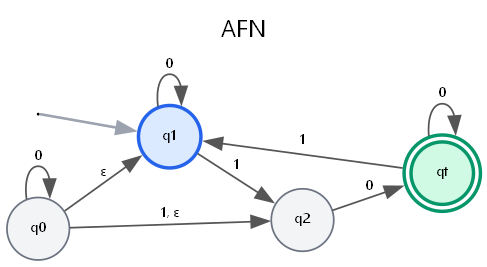
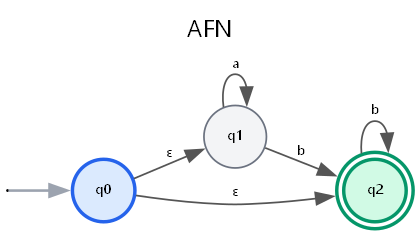
Alterações finais

diff --git a/main.py b/main.py
@@ -1,3 +1,7 @@
+# Nathália Marques Lima - 8163
+# Laura Luísa Martins Teixeira - 8758
+# Paulo Lemos - 9353
+
 from frontend import run_app
 
 

diff --git a/README.md b/README.md
@@ -1,16 +1,21 @@
 # Sistema de Teoria da Computacao
 
 Projeto em Python com interface grafica Tkinter para trabalhar com conceitos
-fundamentais de Teoria da Computacao:
+fundamentais da Teoria da Computacao.
+
+O sistema permite:
 
 - entrada e validacao de AFN;
 - conversao AFN -> AFD por construcao de subconjuntos;
 - simulacao de aceitacao de palavras no AFD;
 - minimizacao de AFD por refinamento de particoes;
-- conversao bidirecional entre gramatica regular e automato finito.
+- conversao bidirecional entre gramatica regular e automato finito;
+- visualizacao grafica dos automatos gerados;
+- salvamento dos diagramas dos automatos em imagem PNG.
 
-O projeto nao usa bibliotecas de terceiros e nao usa modulos prontos para
-processamento de linguagens regulares.
+O projeto nao usa bibliotecas prontas voltadas para processamento de linguagens
+regulares. As bibliotecas externas utilizadas sao apenas para visualizacao
+grafica dos automatos.
 
 ## Estrutura
 
@@ -18,20 +23,38 @@ processamento de linguagens regulares.
 sistema_teoria_computacao/
   main.py
   backend/
-    automata.py     # AFN, AFD, determinizacao, simulacao e minimizacao
+    automata.py     # AFN, AFD, determinizacao, simulacao, minimizacao e imagens Graphviz
     grammar.py      # Gramatica regular e conversoes GR <-> AF
     parsers.py      # Parsers textuais manuais, sem expressoes regulares
     errors.py       # Excecoes de validacao e parsing
   frontend/
     app.py          # Interface grafica Tkinter
+  output_graphs/    # Imagens PNG geradas automaticamente pelos automatos
 ```
 
 ## Requisitos
 
 - Python 3.10 ou superior.
 - Tkinter habilitado na instalacao do Python.
+- Pillow, usado para carregar e exibir imagens na interface.
+- Graphviz, usado para gerar os diagramas dos automatos.
 
 No Windows, a instalacao oficial do Python normalmente ja inclui Tkinter.
+
+Para que os diagramas sejam gerados corretamente, tambem e necessario instalar
+o Graphviz no sistema operacional e deixar o executavel `dot` disponivel no
+`PATH`.
+
+## Instalacao das dependencias
+
+Abra um terminal na pasta do projeto e execute:
+
+```powershell
+python -m pip install pillow graphviz
+```
+
+Caso o comando `python` nao esteja disponivel, use o executavel Python instalado
+na sua maquina.
 
 ## Como compilar/verificar
 
@@ -44,11 +67,6 @@ python -m compileall .
 
 Esse comando compila os arquivos `.py` para bytecode e aponta erros de sintaxe.
 
-```powershell
-cd caminhoArquivo
-& 'caminhoArquivo\dependencies\python\python.exe' -m compileall .
-```
-
 ## Como executar
 
 Na mesma pasta:
@@ -58,7 +76,23 @@ python main.py
 ```
 
 A janela abre com exemplos preenchidos. Voce pode substituir os campos e usar os
-botoes de conversao, simulacao e minimizacao.
+botoes de conversao, simulacao, minimizacao, conversao entre AF e GR e geracao
+de diagramas.
+
+## Funcionalidades da interface
+
+A interface possui duas abas principais:
+
+- `AFN / AFD`: entrada do AFN, conversao para AFD, simulacao de palavra,
+  minimizacao do AFD e conversao de AFD para gramatica regular.
+- `Gramatica Regular`: entrada de uma gramatica regular, conversao para
+  automato finito e geracao de gramatica a partir do AFD atual.
+
+A area lateral exibe:
+
+- resultado textual das operacoes;
+- diagrama visual do automato;
+- botao para salvar a imagem PNG gerada.
 
 ## Formatos aceitos
 
@@ -124,6 +158,9 @@ S -> aS | bA | epsilon
 
 - O AFN aceita transicoes epsilon, mas epsilon nunca pertence ao alfabeto.
 - A determinizacao cria estados do AFD como subconjuntos dos estados do AFN.
-- A minimizacao completa o AFD, remove estados inalcançaveis e aplica
+- A minimizacao completa o AFD, remove estados inalcancaveis e aplica
   refinamento de particoes ate estabilizar.
+- A conversao GR -> AF cria um AFN equivalente e tambem permite gerar o AFD
+  correspondente.
 - A conversao AF -> GR usa o AFD atual e gera uma gramatica regular equivalente.
+- Os diagramas sao gerados com Graphviz e exibidos na interface com Pillow.
